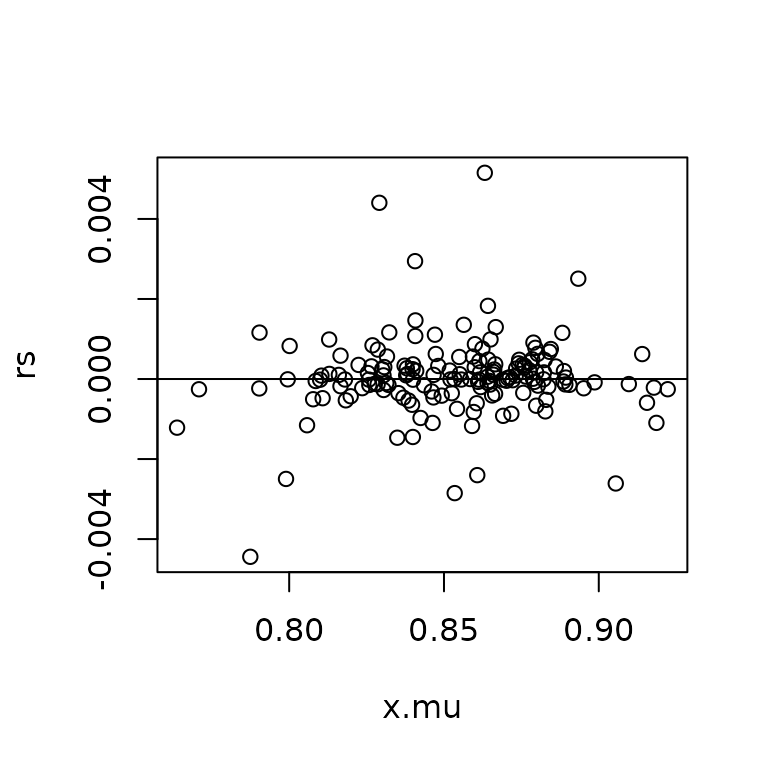
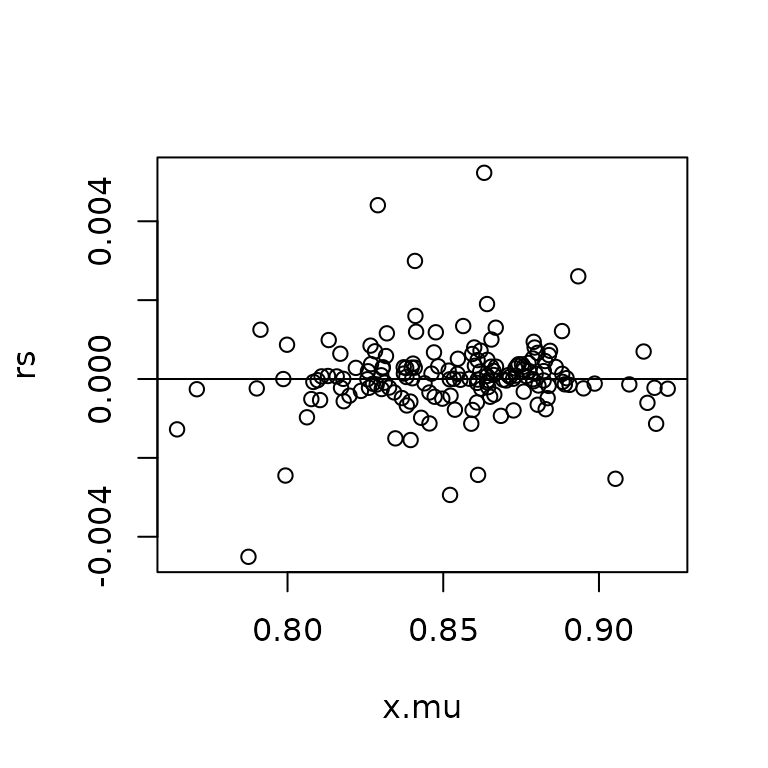
fix error, for slim and drop args

diff --git a/docs/articles/spatial-me-models.html b/docs/articles/spatial-me-models.html
@@ -219,21 +219,15 @@
 <span class="co">## 1 10        0     3</span>
 <span class="co">##   lower upper</span>
 <span class="co">## 1  -1.7     1</span></code></pre>
-<pre><code><span class="co">## Warning: Bulk Effective Samples Size (ESS) is too low, indicating posterior means and medians may be unreliable.</span>
-<span class="co">## Running the chains for more iterations may help. See</span>
-<span class="co">## https://mc-stan.org/misc/warnings.html#bulk-ess</span></code></pre>
-<pre><code><span class="co">## Warning: Tail Effective Samples Size (ESS) is too low, indicating posterior variances and tail quantiles may be unreliable.</span>
-<span class="co">## Running the chains for more iterations may help. See</span>
-<span class="co">## https://mc-stan.org/misc/warnings.html#tail-ess</span></code></pre>
-<div class="sourceCode" id="cb16"><pre class="downlit sourceCode r">
+<div class="sourceCode" id="cb14"><pre class="downlit sourceCode r">
 <code class="sourceCode R"><span class="fu"><a href="https://rdrr.io/r/base/print.html" class="external-link">print</a></span><span class="op">(</span><span class="va">fit</span><span class="op">)</span></code></pre></div>
 <pre><code><span class="co">## Spatial Model Results </span>
 <span class="co">## Formula: deaths.male ~ offset(log(pop.at.risk.male)) + insurance</span>
 <span class="co">## Spatial method (outcome):  CAR </span>
 <span class="co">## Likelihood function:  poisson </span>
 <span class="co">## Link function:  log </span>
-<span class="co">## Residual Moran Coefficient:  -0.00028 </span>
-<span class="co">## WAIC:  1321.54 </span>
+<span class="co">## Residual Moran Coefficient:  8.923077e-05 </span>
+<span class="co">## WAIC:  1319.63 </span>
 <span class="co">## Observations:  159 </span>
 <span class="co">## Data models (ME): insurance</span>
 <span class="co">##  Data model (ME prior): CAR (auto Gaussian)</span>
@@ -242,18 +236,18 @@
 <span class="co">## post-warmup draws per chain=325, total post-warmup draws=1300.</span>
 <span class="co">## </span>
 <span class="co">##             mean se_mean    sd   2.5%    25%    50%    75%  97.5% n_eff  Rhat</span>
-<span class="co">## intercept -4.167   0.002 0.053 -4.259 -4.197 -4.166 -4.138 -4.067   780 1.001</span>
-<span class="co">## insurance -2.731   0.022 0.766 -4.273 -3.259 -2.706 -2.221 -1.259  1170 0.999</span>
-<span class="co">## car_rho    0.865   0.003 0.084  0.663  0.821  0.876  0.928  0.982  1024 0.999</span>
-<span class="co">## car_scale  0.448   0.001 0.033  0.387  0.425  0.447  0.470  0.516   946 1.004</span>
+<span class="co">## intercept -4.167   0.002 0.053 -4.270 -4.198 -4.165 -4.136 -4.061  1072 1.003</span>
+<span class="co">## insurance -2.737   0.020 0.741 -4.177 -3.236 -2.736 -2.254 -1.262  1395 1.000</span>
+<span class="co">## car_rho    0.866   0.003 0.087  0.658  0.817  0.883  0.930  0.988  1062 0.999</span>
+<span class="co">## car_scale  0.447   0.001 0.033  0.386  0.423  0.445  0.467  0.517  1315 0.998</span>
 <span class="co">## </span>
-<span class="co">## Samples were drawn using NUTS(diag_e) at Mon May 29 08:57:18 2023.</span>
+<span class="co">## Samples were drawn using NUTS(diag_e) at Sat Jun  3 07:57:05 2023.</span>
 <span class="co">## For each parameter, n_eff is a crude measure of effective sample size,</span>
 <span class="co">## and Rhat is the potential scale reduction factor on split chains (at </span>
 <span class="co">## convergence, Rhat=1).</span></code></pre>
 <p>The CAR models in <strong>geostan</strong> can be highly efficient in terms of MCMC sampling, but the required number of iterations will depend on many characteristics of the model and data. Often the default <code>iter = 2000</code> is more than sufficient (with <code>cores = 4</code>). To speed up sampling with multi-core processing, use <code>cores = 4</code> (to sample 4 chains in parallel).</p>
-<p>In the following section, methods for examining MCMC samples of the modeled covariate values <span class="math inline">\(\boldsymbol x\)</span> will be illustrated. Note that the process of collecting/storing MCMC samples for <span class="math inline">\(\boldsymbol x\)</span> can be computationally burdensome. This can be avoided by using the <code>slim</code> argument, as in:</p>
-<div class="sourceCode" id="cb18"><pre class="downlit sourceCode r">
+<p>In the following section, methods for examining MCMC samples of the modeled covariate values <span class="math inline">\(\boldsymbol x\)</span> will be illustrated. Note that the process of storing MCMC samples for <span class="math inline">\(\boldsymbol x\)</span> can become computationally burdensome if you have multiple covariates and moderately large N. If you do not need the samples of <span class="math inline">\(\boldsymbol x\)</span> you can use the <code>slim</code> argument, as in:</p>
+<div class="sourceCode" id="cb16"><pre class="downlit sourceCode r">
 <code class="sourceCode R"><span class="va">fit</span> <span class="op">&lt;-</span> <span class="fu"><a href="../reference/stan_car.html">stan_car</a></span><span class="op">(</span><span class="va">deaths.male</span> <span class="op">~</span> <span class="fu"><a href="https://rdrr.io/r/stats/offset.html" class="external-link">offset</a></span><span class="op">(</span><span class="fu"><a href="https://rdrr.io/r/base/Log.html" class="external-link">log</a></span><span class="op">(</span><span class="va">pop.at.risk.male</span><span class="op">)</span><span class="op">)</span> <span class="op">+</span> <span class="va">insurance</span>,
                 centerx <span class="op">=</span> <span class="cn">TRUE</span>,
                 ME <span class="op">=</span> <span class="va">ME_list</span>,
@@ -262,7 +256,7 @@
                 data <span class="op">=</span> <span class="va">georgia</span>, 
                 car_parts <span class="op">=</span> <span class="va">cars</span>
                 <span class="op">)</span></code></pre></div>
-<p>Using <code>slim = TRUE</code> may be faster (particularly for larger data sets), but will prevent the collection of MCMC samples for quantities of interest such as fitted values, pointwise log-likelihood values (required for WAIC), and modeled covariates <span class="math inline">\(\boldsymbol x\)</span>. This option may be useful for preliminary examination of the models (e.g., to compare results to a standard model), or it may be appropriate to use this specification if the ME models have been evaluated in a previous run using <code>me_diag</code>, as discussed below. The <code>drop</code> argument to the model fitting functions (e.g., <code>stan_car</code>) provides more control over which parameters are saved.</p>
+<p>Using <code>slim = TRUE</code> may be faster (particularly for larger data sets), but will prevent the collection of MCMC samples for quantities of interest such as fitted values, pointwise log-likelihood values (required for WAIC), and modeled covariates <span class="math inline">\(\boldsymbol x\)</span>. The <code>drop</code> argument to the model fitting functions (e.g., <code>stan_car</code>) provides more control over which parameters are saved.</p>
 </div>
 <div class="section level2">
 <h2 id="visual-diagnostics">Visual diagnostics<a class="anchor" aria-label="anchor" href="#visual-diagnostics"></a>
@@ -271,7 +265,7 @@
 <p>First, it provides a point-interval scatter plot that compares the raw survey estimates (on the horizontal axis) to the modeled values (on the vertical axis). The (posterior) probability distributions for the modeled values are represented by their 95% credible intervals. The intervals provide a sense of the <em>quality</em> of the ACS data—if the credible intervals on the modeled value are large, this tells us that the data are not particularly reliable.</p>
 <p>The <code>me_diag</code> function also provides more direct visual depictions of the difference between the raw survey estimates <span class="math inline">\(z_i\)</span> an the modeled values <span class="math inline">\(x_i\)</span>: <span class="math display">\[\delta_i = z_i - x_i.\]</span> We want to look for any strong spatial pattern in these <span class="math inline">\(\delta_i\)</span> values, because that would be an indication of a bias. However, the magnitude of the <span class="math inline">\(\delta_i\)</span> value is important to consider—there may be a pattern, but if the amount of shrinkage is very small, that pattern may not matter. (The model returns <span class="math inline">\(M\)</span> samples from the posterior distribution of each <span class="math inline">\(x_i\)</span>; or, indexing by MCMC sample <span class="math inline">\(x_i^m\)</span> (<span class="math inline">\(m\)</span> is an index, not an exponent). The reported <span class="math inline">\(\delta_i\)</span> values is the MCMC mean <span class="math inline">\(\delta_i = \frac{1}{M} \sum_m z_i - x_i^m\)</span>.)</p>
 <p>Two figures are provided to evaluate patterns in <span class="math inline">\(\delta_i\)</span>: first, a Moran scatter plot and, second, a map.</p>
-<div class="sourceCode" id="cb19"><pre class="downlit sourceCode r">
+<div class="sourceCode" id="cb17"><pre class="downlit sourceCode r">
 <code class="sourceCode R"><span class="fu"><a href="../reference/me_diag.html">me_diag</a></span><span class="op">(</span><span class="va">fit</span>, <span class="st">'insurance'</span>, <span class="va">georgia</span><span class="op">)</span></code></pre></div>
 <p><img src="spatial-me-models_files/figure-html/unnamed-chunk-10-1.png" width="768" style="display: block; margin: auto;"></p>
 <p>In this case, the results do not look too concerning insofar as there are no conspicuous patterns. However, a number of the credible intervals on the modeled values are large, which indicates low data reliability. The fact that some of the <span class="math inline">\(\delta_i\)</span> values are substantial also points to low data quality for those estimates.</p>
@@ -281,54 +275,54 @@
 </h3>
 <p><strong>geostan</strong> consists of pre-compiled Stan models, and users can always access the Markov chain Monte Carlo (MCMC) samples returned by Stan. When extracted as a matrix of samples (as below), each row of the matrix represents a draw from the joint probability distribution for all model parameters, and each column consists of samples from the marginal distribution of each parameter.</p>
 <p>The ME models return samples for <span class="math inline">\(x_i\)</span> as well as the model parameters <span class="math inline">\(\mu\)</span> (“mu_x_true”), <span class="math inline">\(\rho\)</span> (“car_rho_x_true”), and <span class="math inline">\(\tau\)</span> (“sigma_x_true”). We can access these using <code>as.matrix</code> (also <code>as.array</code> and <code>as.data.frame</code>).</p>
-<div class="sourceCode" id="cb20"><pre class="downlit sourceCode r">
+<div class="sourceCode" id="cb18"><pre class="downlit sourceCode r">
 <code class="sourceCode R"><span class="va">mu.x</span> <span class="op">&lt;-</span> <span class="fu"><a href="https://rdrr.io/r/base/matrix.html" class="external-link">as.matrix</a></span><span class="op">(</span><span class="va">fit</span>, pars <span class="op">=</span> <span class="st">"mu_x_true"</span><span class="op">)</span>
 <span class="fu"><a href="https://rdrr.io/r/base/dim.html" class="external-link">dim</a></span><span class="op">(</span><span class="va">mu.x</span><span class="op">)</span></code></pre></div>
 <pre><code><span class="co">## [1] 1300    1</span></code></pre>
-<div class="sourceCode" id="cb22"><pre class="downlit sourceCode r">
+<div class="sourceCode" id="cb20"><pre class="downlit sourceCode r">
 <code class="sourceCode R"><span class="fu"><a href="https://rdrr.io/r/utils/head.html" class="external-link">head</a></span><span class="op">(</span><span class="va">mu.x</span><span class="op">)</span></code></pre></div>
 <pre><code><span class="co">##           parameters</span>
 <span class="co">## iterations mu_x_true[1]</span>
-<span class="co">##       [1,]     1.829415</span>
-<span class="co">##       [2,]     1.732356</span>
-<span class="co">##       [3,]     1.731476</span>
-<span class="co">##       [4,]     1.805175</span>
-<span class="co">##       [5,]     1.862043</span>
-<span class="co">##       [6,]     1.721060</span></code></pre>
-<div class="sourceCode" id="cb24"><pre class="downlit sourceCode r">
+<span class="co">##       [1,]     1.750264</span>
+<span class="co">##       [2,]     1.799858</span>
+<span class="co">##       [3,]     1.713619</span>
+<span class="co">##       [4,]     1.782109</span>
+<span class="co">##       [5,]     1.775946</span>
+<span class="co">##       [6,]     1.792157</span></code></pre>
+<div class="sourceCode" id="cb22"><pre class="downlit sourceCode r">
 <code class="sourceCode R"><span class="fu"><a href="https://rdrr.io/r/base/mean.html" class="external-link">mean</a></span><span class="op">(</span><span class="va">mu.x</span><span class="op">)</span></code></pre></div>
-<pre><code><span class="co">## [1] 1.793989</span></code></pre>
+<pre><code><span class="co">## [1] 1.788289</span></code></pre>
 <p>We can visualize these using <code>plot</code> or print a summary:</p>
-<div class="sourceCode" id="cb26"><pre class="downlit sourceCode r">
+<div class="sourceCode" id="cb24"><pre class="downlit sourceCode r">
 <code class="sourceCode R"><span class="fu"><a href="https://rdrr.io/r/base/print.html" class="external-link">print</a></span><span class="op">(</span><span class="va">fit</span><span class="op">$</span><span class="va">stanfit</span>, pars <span class="op">=</span> <span class="fu"><a href="https://rdrr.io/r/base/c.html" class="external-link">c</a></span><span class="op">(</span><span class="st">"mu_x_true"</span>, <span class="st">"car_rho_x_true"</span>, <span class="st">"sigma_x_true"</span><span class="op">)</span><span class="op">)</span></code></pre></div>
 <pre><code><span class="co">## Inference for Stan model: foundation.</span>
 <span class="co">## 4 chains, each with iter=650; warmup=325; thin=1; </span>
 <span class="co">## post-warmup draws per chain=325, total post-warmup draws=1300.</span>
 <span class="co">## </span>
 <span class="co">##                   mean se_mean   sd 2.5%  25%  50%  75% 97.5% n_eff Rhat</span>
-<span class="co">## mu_x_true[1]      1.79    0.01 0.11 1.62 1.75 1.79 1.83  2.01   164 1.01</span>
-<span class="co">## car_rho_x_true[1] 0.91    0.00 0.07 0.74 0.88 0.93 0.96  1.00   753 1.00</span>
-<span class="co">## sigma_x_true[1]   0.48    0.00 0.04 0.41 0.46 0.48 0.51  0.56  1156 1.00</span>
+<span class="co">## mu_x_true[1]      1.79       0 0.07 1.65 1.75 1.79 1.83  1.93  1142    1</span>
+<span class="co">## car_rho_x_true[1] 0.91       0 0.06 0.75 0.87 0.92 0.96  0.99  1254    1</span>
+<span class="co">## sigma_x_true[1]   0.48       0 0.04 0.42 0.46 0.48 0.50  0.55  1227    1</span>
 <span class="co">## </span>
-<span class="co">## Samples were drawn using NUTS(diag_e) at Mon May 29 08:57:18 2023.</span>
+<span class="co">## Samples were drawn using NUTS(diag_e) at Sat Jun  3 07:57:05 2023.</span>
 <span class="co">## For each parameter, n_eff is a crude measure of effective sample size,</span>
 <span class="co">## and Rhat is the potential scale reduction factor on split chains (at </span>
 <span class="co">## convergence, Rhat=1).</span></code></pre>
 <p>To extract samples from the joint probability distribution for <span class="math inline">\(\boldsymbol x\)</span>, use the generic parameter name “x_true”:</p>
-<div class="sourceCode" id="cb28"><pre class="downlit sourceCode r">
+<div class="sourceCode" id="cb26"><pre class="downlit sourceCode r">
 <code class="sourceCode R"><span class="va">x</span> <span class="op">&lt;-</span> <span class="fu"><a href="https://rdrr.io/r/base/matrix.html" class="external-link">as.matrix</a></span><span class="op">(</span><span class="va">fit</span>, pars <span class="op">=</span> <span class="st">"x_true"</span><span class="op">)</span>
 <span class="fu"><a href="https://rdrr.io/r/base/dim.html" class="external-link">dim</a></span><span class="op">(</span><span class="va">x</span><span class="op">)</span></code></pre></div>
 <pre><code><span class="co">## [1] 1300  159</span></code></pre>
 <p>If we wanted to calculate the mean of each of these marginal distributions (one for every <span class="math inline">\(x_i\)</span>), we could use <code>apply</code> with <code>MARGIN = 2</code> to summarize by column:</p>
-<div class="sourceCode" id="cb30"><pre class="downlit sourceCode r">
+<div class="sourceCode" id="cb28"><pre class="downlit sourceCode r">
 <code class="sourceCode R"><span class="va">x.mu</span> <span class="op">&lt;-</span> <span class="fu"><a href="https://rdrr.io/r/base/apply.html" class="external-link">apply</a></span><span class="op">(</span><span class="va">x</span>, <span class="fl">2</span>, <span class="va">mean</span><span class="op">)</span>
 <span class="fu"><a href="https://rdrr.io/r/utils/head.html" class="external-link">head</a></span><span class="op">(</span><span class="va">x.mu</span><span class="op">)</span></code></pre></div>
 <pre><code><span class="co">## x_insurance[1] x_insurance[2] x_insurance[3] x_insurance[4] x_insurance[5] </span>
-<span class="co">##      0.8368901      0.8001461      0.8518467      0.8521003      0.9177954 </span>
+<span class="co">##      0.8367261      0.7998391      0.8517314      0.8521031      0.9178342 </span>
 <span class="co">## x_insurance[6] </span>
-<span class="co">##      0.8702162</span></code></pre>
+<span class="co">##      0.8702092</span></code></pre>
 <p>The vector <code>x.mu</code> contains estimates (posterior means) for <span class="math inline">\(x_i\)</span>. We might want to use these to plot the residuals or fitted values against the predictor:</p>
-<div class="sourceCode" id="cb32"><pre class="downlit sourceCode r">
+<div class="sourceCode" id="cb30"><pre class="downlit sourceCode r">
 <code class="sourceCode R"><span class="va">rs</span> <span class="op">&lt;-</span> <span class="fu"><a href="https://rdrr.io/r/stats/residuals.html" class="external-link">resid</a></span><span class="op">(</span><span class="va">fit</span><span class="op">)</span><span class="op">$</span><span class="va">mean</span>
 <span class="fu"><a href="https://r-spatial.github.io/sf/reference/plot.html" class="external-link">plot</a></span><span class="op">(</span><span class="va">x.mu</span>, <span class="va">rs</span><span class="op">)</span>
 <span class="fu"><a href="https://rdrr.io/r/graphics/abline.html" class="external-link">abline</a></span><span class="op">(</span>h <span class="op">=</span> <span class="fl">0</span><span class="op">)</span></code></pre></div>
@@ -339,7 +333,7 @@
 <h2 id="non-spatial-me-models">Non-spatial ME models<a class="anchor" aria-label="anchor" href="#non-spatial-me-models"></a>
 </h2>
 <p>If the <code>ME</code> list doesn’t have a slot with <code>car_parts</code>, <strong>geostan</strong> will automatically use a non-spatial Student’s t model instead of the CAR model: <span class="math display">\[ p(\boldsymbol x | \mathcal{M}) = Student(\boldsymbol x | \nu, \mu \boldsymbol 1, \sigma) \]</span></p>
-<div class="sourceCode" id="cb33"><pre class="downlit sourceCode r">
+<div class="sourceCode" id="cb31"><pre class="downlit sourceCode r">
 <code class="sourceCode R"><span class="va">ME_nsp</span> <span class="op">&lt;-</span> <span class="fu"><a href="../reference/prep_me_data.html">prep_me_data</a></span><span class="op">(</span>
   se <span class="op">=</span> <span class="fu"><a href="https://rdrr.io/r/base/data.frame.html" class="external-link">data.frame</a></span><span class="op">(</span>insurance <span class="op">=</span> <span class="va">georgia</span><span class="op">$</span><span class="va">insurance.se</span><span class="op">)</span>,
   logit <span class="op">=</span> <span class="cn">TRUE</span>

diff --git a/docs/articles/raster-regression.html b/docs/articles/raster-regression.html
@@ -149,7 +149,7 @@
 <span class="co">## *Setting prior parameters for intercept</span></code></pre>
 <pre><code><span class="co">## Distribution: normal</span></code></pre>
 <pre><code><span class="co">##   location scale</span>
-<span class="co">## 1    -0.25   5.8</span></code></pre>
+<span class="co">## 1    -0.24     5</span></code></pre>
 <pre><code><span class="co">## </span>
 <span class="co">## *Setting prior parameters for beta</span>
 <span class="co">## Distribution: normal</span></code></pre>
@@ -168,8 +168,8 @@
 <span class="co">## </span>
 <span class="co">## SAMPLING FOR MODEL 'foundation' NOW (CHAIN 1).</span>
 <span class="co">## Chain 1: </span>
-<span class="co">## Chain 1: Gradient evaluation took 0.000441 seconds</span>
-<span class="co">## Chain 1: 1000 transitions using 10 leapfrog steps per transition would take 4.41 seconds.</span>
+<span class="co">## Chain 1: Gradient evaluation took 0.000455 seconds</span>
+<span class="co">## Chain 1: 1000 transitions using 10 leapfrog steps per transition would take 4.55 seconds.</span>
 <span class="co">## Chain 1: Adjust your expectations accordingly!</span>
 <span class="co">## Chain 1: </span>
 <span class="co">## Chain 1: </span>
@@ -177,15 +177,15 @@
 <span class="co">## Chain 1: Iteration: 251 / 500 [ 50%]  (Sampling)</span>
 <span class="co">## Chain 1: Iteration: 500 / 500 [100%]  (Sampling)</span>
 <span class="co">## Chain 1: </span>
-<span class="co">## Chain 1:  Elapsed Time: 1.187 seconds (Warm-up)</span>
-<span class="co">## Chain 1:                0.565 seconds (Sampling)</span>
-<span class="co">## Chain 1:                1.752 seconds (Total)</span>
+<span class="co">## Chain 1:  Elapsed Time: 1.057 seconds (Warm-up)</span>
+<span class="co">## Chain 1:                0.53 seconds (Sampling)</span>
+<span class="co">## Chain 1:                1.587 seconds (Total)</span>
 <span class="co">## Chain 1: </span>
 <span class="co">## </span>
 <span class="co">## SAMPLING FOR MODEL 'foundation' NOW (CHAIN 2).</span>
 <span class="co">## Chain 2: </span>
-<span class="co">## Chain 2: Gradient evaluation took 0.000363 seconds</span>
-<span class="co">## Chain 2: 1000 transitions using 10 leapfrog steps per transition would take 3.63 seconds.</span>
+<span class="co">## Chain 2: Gradient evaluation took 0.000308 seconds</span>
+<span class="co">## Chain 2: 1000 transitions using 10 leapfrog steps per transition would take 3.08 seconds.</span>
 <span class="co">## Chain 2: Adjust your expectations accordingly!</span>
 <span class="co">## Chain 2: </span>
 <span class="co">## Chain 2: </span>
@@ -193,15 +193,15 @@
 <span class="co">## Chain 2: Iteration: 251 / 500 [ 50%]  (Sampling)</span>
 <span class="co">## Chain 2: Iteration: 500 / 500 [100%]  (Sampling)</span>
 <span class="co">## Chain 2: </span>
-<span class="co">## Chain 2:  Elapsed Time: 1.356 seconds (Warm-up)</span>
-<span class="co">## Chain 2:                0.586 seconds (Sampling)</span>
-<span class="co">## Chain 2:                1.942 seconds (Total)</span>
+<span class="co">## Chain 2:  Elapsed Time: 1.108 seconds (Warm-up)</span>
+<span class="co">## Chain 2:                0.573 seconds (Sampling)</span>
+<span class="co">## Chain 2:                1.681 seconds (Total)</span>
 <span class="co">## Chain 2: </span>
 <span class="co">## </span>
 <span class="co">## SAMPLING FOR MODEL 'foundation' NOW (CHAIN 3).</span>
 <span class="co">## Chain 3: </span>
-<span class="co">## Chain 3: Gradient evaluation took 0.00037 seconds</span>
-<span class="co">## Chain 3: 1000 transitions using 10 leapfrog steps per transition would take 3.7 seconds.</span>
+<span class="co">## Chain 3: Gradient evaluation took 0.000301 seconds</span>
+<span class="co">## Chain 3: 1000 transitions using 10 leapfrog steps per transition would take 3.01 seconds.</span>
 <span class="co">## Chain 3: Adjust your expectations accordingly!</span>
 <span class="co">## Chain 3: </span>
 <span class="co">## Chain 3: </span>
@@ -209,15 +209,15 @@
 <span class="co">## Chain 3: Iteration: 251 / 500 [ 50%]  (Sampling)</span>
 <span class="co">## Chain 3: Iteration: 500 / 500 [100%]  (Sampling)</span>
 <span class="co">## Chain 3: </span>
-<span class="co">## Chain 3:  Elapsed Time: 1.319 seconds (Warm-up)</span>
-<span class="co">## Chain 3:                0.616 seconds (Sampling)</span>
-<span class="co">## Chain 3:                1.935 seconds (Total)</span>
+<span class="co">## Chain 3:  Elapsed Time: 1.06 seconds (Warm-up)</span>
+<span class="co">## Chain 3:                0.562 seconds (Sampling)</span>
+<span class="co">## Chain 3:                1.622 seconds (Total)</span>
 <span class="co">## Chain 3: </span>
 <span class="co">## </span>
 <span class="co">## SAMPLING FOR MODEL 'foundation' NOW (CHAIN 4).</span>
 <span class="co">## Chain 4: </span>
-<span class="co">## Chain 4: Gradient evaluation took 0.000347 seconds</span>
-<span class="co">## Chain 4: 1000 transitions using 10 leapfrog steps per transition would take 3.47 seconds.</span>
+<span class="co">## Chain 4: Gradient evaluation took 0.000312 seconds</span>
+<span class="co">## Chain 4: 1000 transitions using 10 leapfrog steps per transition would take 3.12 seconds.</span>
 <span class="co">## Chain 4: Adjust your expectations accordingly!</span>
 <span class="co">## Chain 4: </span>
 <span class="co">## Chain 4: </span>
@@ -225,9 +225,9 @@
 <span class="co">## Chain 4: Iteration: 251 / 500 [ 50%]  (Sampling)</span>
 <span class="co">## Chain 4: Iteration: 500 / 500 [100%]  (Sampling)</span>
 <span class="co">## Chain 4: </span>
-<span class="co">## Chain 4:  Elapsed Time: 1.375 seconds (Warm-up)</span>
-<span class="co">## Chain 4:                0.634 seconds (Sampling)</span>
-<span class="co">## Chain 4:                2.009 seconds (Total)</span>
+<span class="co">## Chain 4:  Elapsed Time: 1.039 seconds (Warm-up)</span>
+<span class="co">## Chain 4:                0.558 seconds (Sampling)</span>
+<span class="co">## Chain 4:                1.597 seconds (Total)</span>
 <span class="co">## Chain 4:</span></code></pre>
 <div class="sourceCode" id="cb22"><pre class="downlit sourceCode r">
 <code class="sourceCode R"><span class="fu"><a href="https://rdrr.io/r/base/print.html" class="external-link">print</a></span><span class="op">(</span><span class="va">fit</span><span class="op">)</span>      </code></pre></div>
@@ -244,12 +244,12 @@
 <span class="co">## post-warmup draws per chain=250, total post-warmup draws=1000.</span>
 <span class="co">## </span>
 <span class="co">##             mean se_mean    sd   2.5%    25%    50%    75%  97.5% n_eff  Rhat</span>
-<span class="co">## intercept -0.252   0.003 0.090 -0.433 -0.311 -0.252 -0.191 -0.076   829 1.004</span>
-<span class="co">## z         -0.514   0.000 0.008 -0.529 -0.519 -0.514 -0.508 -0.497  1061 0.998</span>
-<span class="co">## sar_rho    0.905   0.000 0.013  0.878  0.897  0.905  0.913  0.928   829 0.997</span>
-<span class="co">## sar_scale  0.290   0.000 0.006  0.278  0.286  0.290  0.294  0.302   845 0.998</span>
+<span class="co">## intercept -0.237   0.003 0.094 -0.421 -0.296 -0.236 -0.180 -0.054   757 1.002</span>
+<span class="co">## z         -0.482   0.000 0.008 -0.499 -0.488 -0.482 -0.476 -0.465  1345 1.001</span>
+<span class="co">## sar_rho    0.907   0.000 0.012  0.882  0.898  0.907  0.916  0.930   760 0.999</span>
+<span class="co">## sar_scale  0.290   0.000 0.006  0.278  0.286  0.290  0.294  0.304  1064 0.997</span>
 <span class="co">## </span>
-<span class="co">## Samples were drawn using NUTS(diag_e) at Mon May 29 09:51:36 2023.</span>
+<span class="co">## Samples were drawn using NUTS(diag_e) at Sat Jun  3 07:56:53 2023.</span>
 <span class="co">## For each parameter, n_eff is a crude measure of effective sample size,</span>
 <span class="co">## and Rhat is the potential scale reduction factor on split chains (at </span>
 <span class="co">## convergence, Rhat=1).</span></code></pre>

diff --git a/docs/news/index.html b/docs/news/index.html
@@ -23,7 +23,7 @@
       </button>
       <span class="navbar-brand">
         <a class="navbar-link" href="../index.html">geostan</a>
-        <span class="version label label-default" data-toggle="tooltip" data-placement="bottom" title="">0.5.0</span>
+        <span class="version label label-default" data-toggle="tooltip" data-placement="bottom" title="">0.5.1</span>
       </span>
     </div>
 
@@ -57,7 +57,14 @@
     </div>
 
     <div class="section level2">
-<h2 class="page-header" data-toc-text="0.5.0" id="geostan-050">geostan 0.5.0<a class="anchor" aria-label="anchor" href="#geostan-050"></a></h2>
+<h2 class="page-header" data-toc-text="0.5.1" id="geostan-051">geostan 0.5.1<a class="anchor" aria-label="anchor" href="#geostan-051"></a></h2>
+<div class="section level4">
+<h4 id="minor-fixes-0-5-1">Minor fixes<a class="anchor" aria-label="anchor" href="#minor-fixes-0-5-1"></a></h4>
+<p>This release fixes some issues that were introduced with the <code>slim</code> and <code>drop</code> arguments (in v0.5.0).</p>
+</div>
+</div>
+    <div class="section level2">
+<h2 class="page-header" data-toc-text="0.5.0" id="geostan-050">geostan 0.5.0<small>2023-05-29</small><a class="anchor" aria-label="anchor" href="#geostan-050"></a></h2>
 <div class="section level3">
 <h3 id="new-additions-0-5-0">New additions<a class="anchor" aria-label="anchor" href="#new-additions-0-5-0"></a></h3>
 <p>The package now provides some support for spatial regression with raster data, including for layers with hundreds of thousands of observations (possibly more, depending on one’s computational resources). Two new additions make this possible.</p>

diff --git a/docs/reference/stan_icar.html b/docs/reference/stan_icar.html
@@ -23,7 +23,7 @@
       </button>
       <span class="navbar-brand">
         <a class="navbar-link" href="../index.html">geostan</a>
-        <span class="version label label-default" data-toggle="tooltip" data-placement="bottom" title="">0.4.2</span>
+        <span class="version label label-default" data-toggle="tooltip" data-placement="bottom" title="">0.5.0</span>
       </span>
     </div>
 
@@ -341,8 +341,6 @@ $$ \tau \sim Gaussian(0, 1) $$</p>
     <div id="ref-examples">
     <h2>Examples</h2>
     <div class="sourceCode"><pre class="sourceCode r"><code><span class="co"># \donttest{</span>
-<span class="co"># for parallel processing of models:</span>
-<span class="co">#options(mc.cores = parallel::detectCores())</span>
 <span class="fu"><a href="https://rdrr.io/r/utils/data.html" class="external-link">data</a></span><span class="op">(</span><span class="va">sentencing</span><span class="op">)</span>
 <span class="va">C</span> <span class="op">&lt;-</span> <span class="fu"><a href="shape2mat.html">shape2mat</a></span><span class="op">(</span><span class="va">sentencing</span>, <span class="st">"B"</span><span class="op">)</span>
 <span class="va">log_e</span> <span class="op">&lt;-</span> <span class="fu"><a href="https://rdrr.io/r/base/Log.html" class="external-link">log</a></span><span class="op">(</span><span class="va">sentencing</span><span class="op">$</span><span class="va">expected_sents</span><span class="op">)</span>

diff --git a/docs/404.html b/docs/404.html
@@ -45,7 +45,7 @@
       </button>
       <span class="navbar-brand">
         <a class="navbar-link" href="https://connordonegan.github.io/geostan/index.html">geostan</a>
-        <span class="version label label-default" data-toggle="tooltip" data-placement="bottom" title="">0.5.0</span>
+        <span class="version label label-default" data-toggle="tooltip" data-placement="bottom" title="">0.5.1</span>
       </span>
     </div>
 

diff --git a/docs/articles/index.html b/docs/articles/index.html
@@ -23,7 +23,7 @@
       </button>
       <span class="navbar-brand">
         <a class="navbar-link" href="../index.html">geostan</a>
-        <span class="version label label-default" data-toggle="tooltip" data-placement="bottom" title="">0.5.0</span>
+        <span class="version label label-default" data-toggle="tooltip" data-placement="bottom" title="">0.5.1</span>
       </span>
     </div>
 

diff --git a/docs/reference/geostan-package.html b/docs/reference/geostan-package.html
@@ -23,7 +23,7 @@
       </button>
       <span class="navbar-brand">
         <a class="navbar-link" href="../index.html">geostan</a>
-        <span class="version label label-default" data-toggle="tooltip" data-placement="bottom" title="">0.4.2</span>
+        <span class="version label label-default" data-toggle="tooltip" data-placement="bottom" title="">0.5.0</span>
       </span>
     </div>
 

diff --git a/docs/reference/index.html b/docs/reference/index.html
@@ -23,7 +23,7 @@
       </button>
       <span class="navbar-brand">
         <a class="navbar-link" href="../index.html">geostan</a>
-        <span class="version label label-default" data-toggle="tooltip" data-placement="bottom" title="">0.5.0</span>
+        <span class="version label label-default" data-toggle="tooltip" data-placement="bottom" title="">0.5.1</span>
       </span>
     </div>
 

diff --git a/docs/reference/stan_esf.html b/docs/reference/stan_esf.html
@@ -23,7 +23,7 @@
       </button>
       <span class="navbar-brand">
         <a class="navbar-link" href="../index.html">geostan</a>
-        <span class="version label label-default" data-toggle="tooltip" data-placement="bottom" title="">0.4.2</span>
+        <span class="version label label-default" data-toggle="tooltip" data-placement="bottom" title="">0.5.0</span>
       </span>
     </div>
 

diff --git a/docs/LICENSE-text.html b/docs/LICENSE-text.html
@@ -23,7 +23,7 @@
       </button>
       <span class="navbar-brand">
         <a class="navbar-link" href="index.html">geostan</a>
-        <span class="version label label-default" data-toggle="tooltip" data-placement="bottom" title="">0.5.0</span>
+        <span class="version label label-default" data-toggle="tooltip" data-placement="bottom" title="">0.5.1</span>
       </span>
     </div>
 

diff --git a/docs/LICENSE.html b/docs/LICENSE.html
@@ -23,7 +23,7 @@
       </button>
       <span class="navbar-brand">
         <a class="navbar-link" href="index.html">geostan</a>
-        <span class="version label label-default" data-toggle="tooltip" data-placement="bottom" title="">0.5.0</span>
+        <span class="version label label-default" data-toggle="tooltip" data-placement="bottom" title="">0.5.1</span>
       </span>
     </div>
 

diff --git a/docs/authors.html b/docs/authors.html
@@ -23,7 +23,7 @@
       </button>
       <span class="navbar-brand">
         <a class="navbar-link" href="index.html">geostan</a>
-        <span class="version label label-default" data-toggle="tooltip" data-placement="bottom" title="">0.5.0</span>
+        <span class="version label label-default" data-toggle="tooltip" data-placement="bottom" title="">0.5.1</span>
       </span>
     </div>
 
